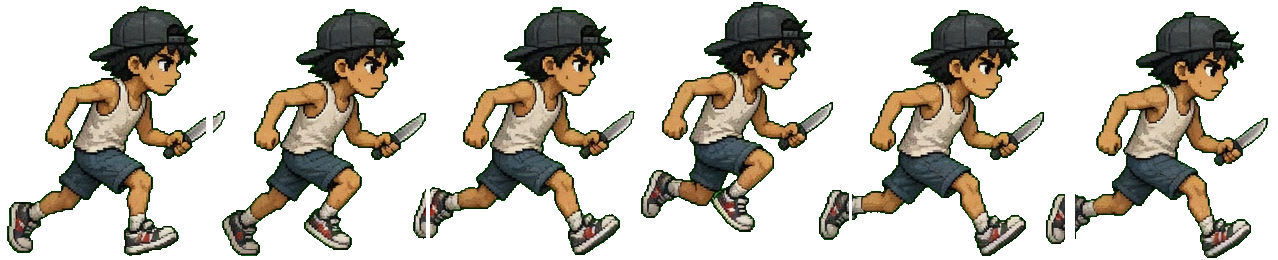
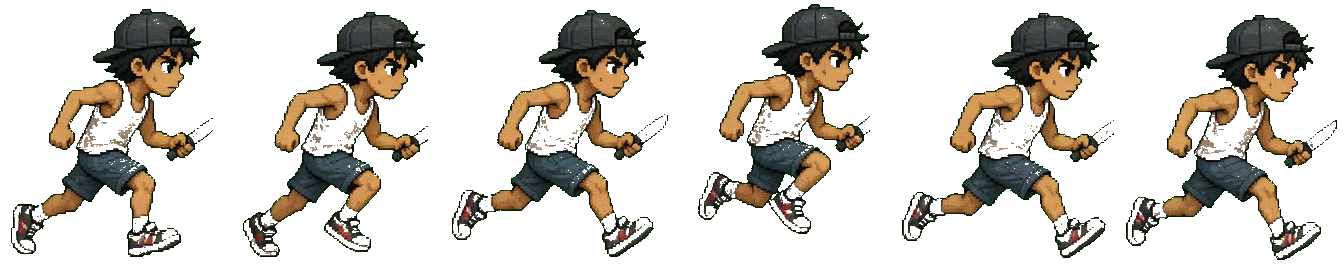
v3.5.1: fix frame animation ghosting
- Root cause: AI-generated sprites not at uniform positions → equal-width
  splitting caused characters to bleed across frame boundaries
- v4 processing pipeline: valley-based split + per-column connected
  component analysis + largest-blob isolation
- Verified all 14 sheets clean: no cross-frame ghosting or fragments

diff --git a/_process_sheets.py b/_process_sheets.py
@@ -1,21 +1,19 @@
 """
-Process AI-generated sprite sheets:
-  1. Chroma-key green (#00ff00) or magenta (#ff00ff) → transparent
-  2. Find content bounding box, crop tight
-  3. Split into N equal-width frames
-  4. Re-pack as horizontal strip with tight per-frame bounding boxes
-  5. Save to src/img/anim/
+Process AI-generated sprite sheets — v4 (valley split + largest-blob per frame):
+  1. Chroma-key → transparent
+  2. Find valleys between characters → split columns
+  3. Per column: label connected components, keep only the largest blob
+  4. Pack into clean horizontal strip
 """
-import os, sys
+import os
 from PIL import Image
 import numpy as np
+from scipy import ndimage
 
 ASSETS = r"C:\Users\lefengliang\.cursor\projects\e-Project-WebGame-HKVSZombie\assets"
 OUT    = r"e:\Project\WebGame\HKVSZombie\src\img\anim"
 
 SHEETS = [
-    # (source_filename, output_key, num_frames, chroma)
-    # HK
     ("hk_melee_cheap_walk.png",   "hk_melee_cheap_walk",  6, "green"),
     ("hk_melee_tank_walk.png",    "hk_melee_tank_walk",   6, "green"),
     ("hk_melee_fast_walk.png",    "hk_melee_fast_walk",   6, "green"),
@@ -23,7 +21,6 @@ SHEETS = [
     ("hk_ranged_aoe_walk.png",    "hk_ranged_aoe_walk",   6, "green"),
     ("hk_ranged_heavy_walk.png",  "hk_ranged_heavy_walk", 6, "green"),
     ("hk_support_walk.png",       "hk_support_walk",      6, "green"),
-    # Zombies
     ("zom_normal_walk.png",  "zom_normal_walk",  6, "green"),
     ("zom_hopper_walk.png",  "zom_hopper_walk",  6, "magenta"),
     ("zom_banshee_walk.png", "zom_banshee_walk", 6, "magenta"),
@@ -33,118 +30,160 @@ SHEETS = [
     ("zom_ghost_walk.png",   "zom_ghost_walk",   6, "magenta"),
 ]
 
-def chroma_key(img, mode="green", threshold=80):
-    """Replace chroma key background with transparency."""
-    arr = np.array(img.convert("RGBA")).copy()
-    r, g, b, a = arr[:,:,0], arr[:,:,1], arr[:,:,2], arr[:,:,3]
-    if mode == "green":
-        # #00ff00 with tolerance
-        mask = (g.astype(int) - np.maximum(r, b).astype(int)) > threshold
-    else:  # magenta
-        # #ff00ff with tolerance
-        mask = (((r.astype(int) + b.astype(int)) / 2 - g.astype(int)) > threshold)
-    arr[mask] = [0, 0, 0, 0]
-    return Image.fromarray(arr)
 
-def find_content_bbox(img):
-    """Find bounding box of non-transparent pixels."""
-    arr = np.array(img)
-    alpha = arr[:,:,3]
+def chroma_key(img, mode="green"):
+    """Aggressive chroma key with fringe cleanup."""
+    arr = np.array(img.convert("RGBA")).copy()
+    r = arr[:,:,0].astype(float)
+    g = arr[:,:,1].astype(float)
+    b = arr[:,:,2].astype(float)
+
+    if mode == "green":
+        mask = (g - np.maximum(r, b)) > 40
+        fringe = (g > 100) & (g > r * 0.9) & (g > b * 0.9) & (~mask)
+        mask |= fringe
+    else:
+        mask = (((r + b) / 2 - g) > 40)
+        fringe = (r > 100) & (b > 100) & (g < 120) & (~mask)
+        mask |= fringe
+
+    arr[mask] = [0, 0, 0, 0]
+    return arr
+
+
+def halo_eat(arr, passes=3):
+    """Remove bright pixels on transparency boundary."""
+    for _ in range(passes):
+        alpha = arr[:,:,3]
+        transparent = alpha < 10
+        dilated = ndimage.binary_dilation(transparent, iterations=1)
+        fringe = dilated & ~transparent
+        brightness = arr[:,:,0].astype(int) + arr[:,:,1].astype(int) + arr[:,:,2].astype(int)
+        arr[fringe & (brightness > 500)] = [0, 0, 0, 0]
+    return arr
+
+
+def find_valleys(alpha, num_frames):
+    """Find split points between characters via vertical alpha projection."""
+    h, w = alpha.shape
+    proj = np.sum(alpha > 10, axis=0).astype(float)
+    kernel = np.ones(max(3, w // 100)) / max(3, w // 100)
+    proj_smooth = np.convolve(proj, kernel, mode='same')
+
+    expected_spacing = w / num_frames
+    splits = [0]
+    for i in range(1, num_frames):
+        ex = int(i * expected_spacing)
+        lo = max(0, ex - int(expected_spacing * 0.35))
+        hi = min(w, ex + int(expected_spacing * 0.35))
+        window = proj_smooth[lo:hi]
+        min_idx = np.argmin(window) + lo
+        splits.append(min_idx)
+    splits.append(w)
+    return [(splits[i], splits[i+1]) for i in range(num_frames)]
+
+
+def largest_blob_only(frame_arr):
+    """
+    Keep only the largest connected component in frame_arr.
+    Uses moderate dilation to connect body parts before labeling,
+    then masks original pixels.
+    """
+    opaque = frame_arr[:,:,3] > 10
+    if not opaque.any():
+        return frame_arr
+
+    # Dilate to connect hand/weapon to body (4 iterations ~ 8px)
+    struct = ndimage.generate_binary_structure(2, 2)
+    connected = ndimage.binary_dilation(opaque, structure=struct, iterations=4)
+    labels, n = ndimage.label(connected)
+    if n <= 1:
+        return frame_arr
+
+    # Find largest component by pixel count
+    sizes = ndimage.sum(opaque, labels, range(1, n + 1))
+    biggest_label = np.argmax(sizes) + 1
+
+    # Keep only original opaque pixels that fall under the largest component
+    keep_mask = (labels == biggest_label) & opaque
+    result = np.zeros_like(frame_arr)
+    result[keep_mask] = frame_arr[keep_mask]
+    return result
+
+
+def find_content_bbox(arr4):
+    """Bounding box of non-transparent pixels."""
+    alpha = arr4[:,:,3]
     rows = np.any(alpha > 10, axis=1)
     cols = np.any(alpha > 10, axis=0)
     if not rows.any() or not cols.any():
-        return (0, 0, img.width, img.height)
+        h, w = arr4.shape[:2]
+        return (0, 0, w, h)
     rmin, rmax = np.where(rows)[0][[0,-1]]
     cmin, cmax = np.where(cols)[0][[0,-1]]
     return (cmin, rmin, cmax + 1, rmax + 1)
 
-def halo_eat(arr, passes=2):
-    """Remove semi-transparent halo pixels near transparent edges."""
-    from scipy import ndimage
-    alpha = arr[:,:,3].copy()
-    transparent = alpha < 10
-    for _ in range(passes):
-        dilated = ndimage.binary_dilation(transparent, iterations=1)
-        fringe = dilated & ~transparent
-        r, g, b = arr[:,:,0], arr[:,:,1], arr[:,:,2]
-        bright = fringe & (r.astype(int) + g.astype(int) + b.astype(int) > 580)
-        arr[bright] = [0, 0, 0, 0]
-        transparent = arr[:,:,3] < 10
-    return arr
 
 def process_sheet(src_path, out_key, num_frames, chroma):
-    """Process one sprite sheet."""
     img = Image.open(src_path).convert("RGBA")
+    w, h = img.size
     print(f"  {out_key}: {img.size} → ", end="")
 
-    # 1. Chroma key
-    img = chroma_key(img, chroma)
+    # 1. Chroma key + halo
+    arr = chroma_key(img, chroma)
+    arr = halo_eat(arr)
+    arr[arr[:,:,3] == 0, :3] = 0
 
-    # 2. Try halo eating (skip if no scipy)
-    try:
-        arr = np.array(img)
-        arr = halo_eat(arr)
-        img = Image.fromarray(arr)
-    except ImportError:
-        pass
+    # 2. Find valley-based split points
+    alpha = arr[:,:,3]
+    frame_ranges = find_valleys(alpha, num_frames)
 
-    # 3. Split into N equal raw frames
-    frame_w = img.width // num_frames
-    raw_frames = []
-    for i in range(num_frames):
-        f = img.crop((i * frame_w, 0, (i + 1) * frame_w, img.height))
-        raw_frames.append(f)
+    # 3. For each frame column: extract, keep largest blob only
+    clean_frames = []
+    global_top, global_bottom = h, 0
+    max_content_w = 0
 
-    # 4. Find tight content bbox across ALL frames for consistent sizing
-    global_top = img.height
-    global_bottom = 0
-    global_max_w = 0
-    frame_bboxes = []
-    for f in raw_frames:
-        bbox = find_content_bbox(f)
-        frame_bboxes.append(bbox)
+    for (left, right) in frame_ranges:
+        col = arr[:, left:right, :].copy()
+        col = largest_blob_only(col)
+        bbox = find_content_bbox(col)
+        clean_frames.append((col, bbox))
         if bbox[1] < global_top: global_top = bbox[1]
         if bbox[3] > global_bottom: global_bottom = bbox[3]
-        fw = bbox[2] - bbox[0]
-        if fw > global_max_w: global_max_w = fw
+        cw = bbox[2] - bbox[0]
+        if cw > max_content_w: max_content_w = cw
 
-    # Add small padding
-    pad = 2
+    # 4. Pack strip
+    pad = 4
     global_top = max(0, global_top - pad)
-    global_bottom = min(img.height, global_bottom + pad)
-    global_max_w = min(frame_w, global_max_w + pad * 2)
-
+    global_bottom = min(h, global_bottom + pad)
     content_h = global_bottom - global_top
-    out_fw = global_max_w
+    cell_w = max_content_w + pad * 2
 
-    # 5. Re-pack frames centered horizontally within uniform frame width
-    strip = Image.new("RGBA", (out_fw * num_frames, content_h), (0, 0, 0, 0))
-    for i, f in enumerate(raw_frames):
-        bbox = frame_bboxes[i]
-        cropped = f.crop((bbox[0], global_top, bbox[2], global_bottom))
-        # Center horizontally
-        cw = cropped.width
-        offset_x = (out_fw - cw) // 2
-        strip.paste(cropped, (i * out_fw + offset_x, 0), cropped)
+    strip = Image.new("RGBA", (cell_w * num_frames, content_h), (0, 0, 0, 0))
+    for i, (col, bbox) in enumerate(clean_frames):
+        cropped = col[global_top:global_bottom, bbox[0]:bbox[2], :]
+        cropped_img = Image.fromarray(cropped)
+        cw = cropped.shape[1]
+        offset_x = (cell_w - cw) // 2
+        strip.paste(cropped_img, (i * cell_w + offset_x, 0), cropped_img)
 
-    # 6. Zero RGB where alpha=0 (halo prevention)
     sarr = np.array(strip)
-    mask = sarr[:,:,3] == 0
-    sarr[mask, :3] = 0
+    sarr[sarr[:,:,3] == 0, :3] = 0
     strip = Image.fromarray(sarr)
 
-    # 7. Save
     out_path = os.path.join(OUT, out_key + ".png")
     strip.save(out_path, optimize=True)
     sz = os.path.getsize(out_path)
-    print(f"{strip.size}, {num_frames}f × {out_fw}×{content_h}, {sz//1024}KB")
+    print(f"{strip.size}, {num_frames}f × {cell_w}×{content_h}, {sz//1024}KB")
+
 
 def main():
     os.makedirs(OUT, exist_ok=True)
     for src_name, out_key, nf, chroma in SHEETS:
         src_path = os.path.join(ASSETS, src_name)
         if not os.path.exists(src_path):
-            print(f"  SKIP {out_key}: {src_path} not found")
+            print(f"  SKIP {out_key}: not found")
             continue
         process_sheet(src_path, out_key, nf, chroma)
     print("\nDone!")
